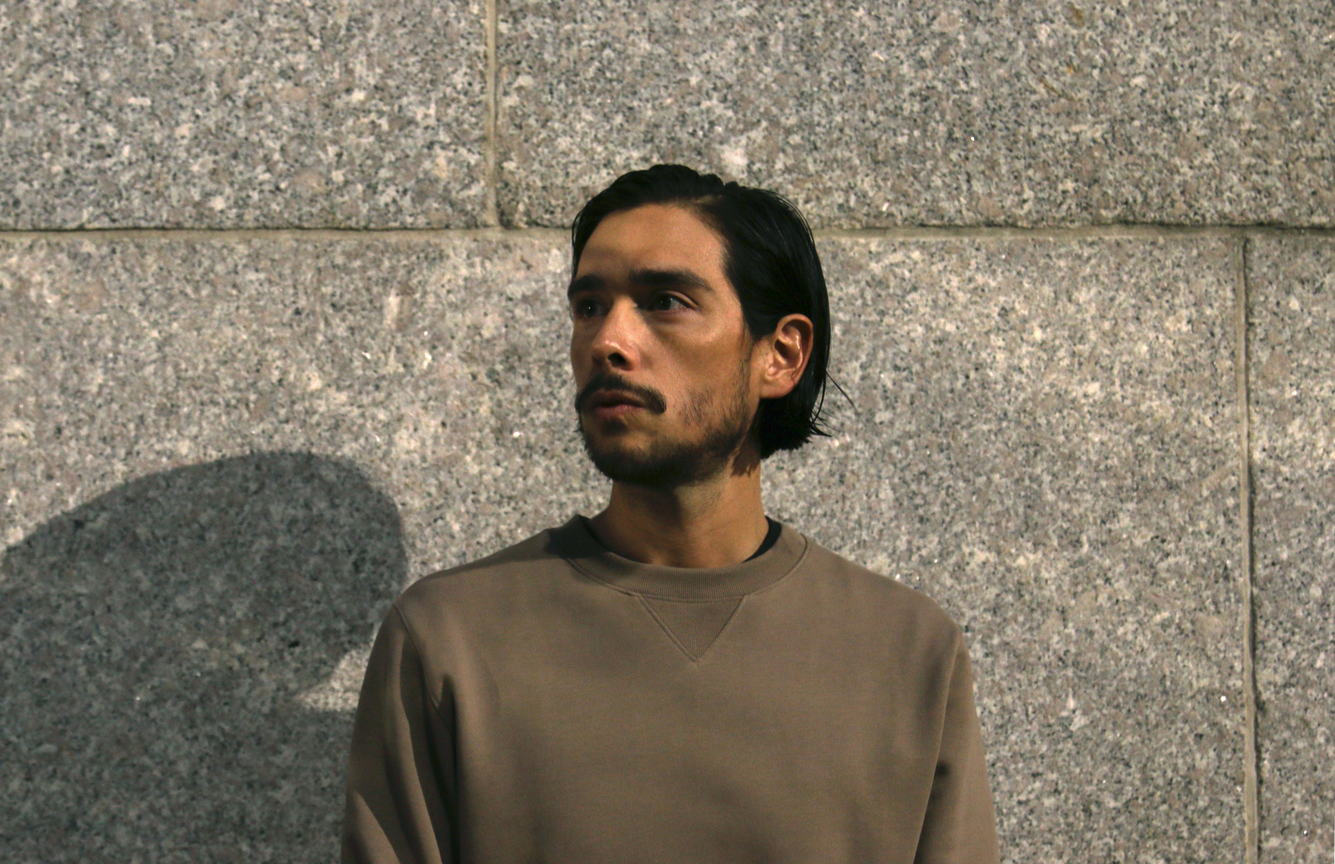
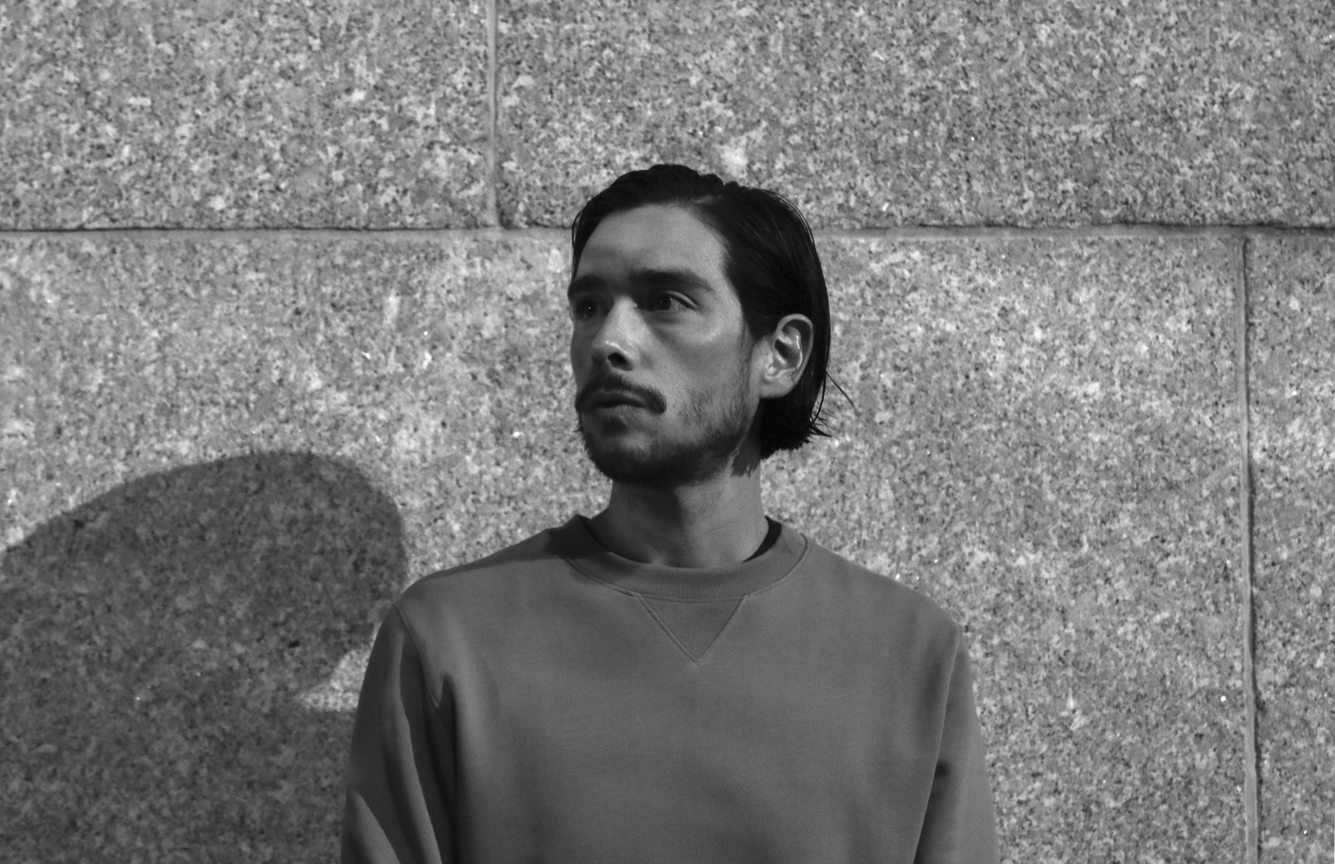
add spotify button. convert images to black and white

diff --git a/assets/styles/tokonoma-promo-landing-page.css b/assets/styles/tokonoma-promo-landing-page.css
@@ -27,7 +27,7 @@ a.tokonoma-page-buy-button {
   background: #D5AC87;
   border: 1px solid #D5AC87;
   text-transform: uppercase;
-  margin: 5px 0 30px 0;
+  margin: 5px 0 0 0;
   color: white;
   padding: 8px 10px;
   font-size: 18px;
@@ -46,13 +46,13 @@ a.tokonoma-page-buy-button {
 .tokonoma-page-splash-wrapper {
   width: 600px;
   position: absolute;
-  top: 165px;
+  top: 205px;
   left: 75px;
   z-index: 10;
 }
 
 .tokonoma-page-mailchimp-wrapper {
-  margin-top: 25px
+  margin-top: 15px
 }
 
 .mail-chimp-button {
@@ -63,6 +63,7 @@ a.tokonoma-page-buy-button {
   width: 151px;
   color: white;
   padding: 5px 0;
+  border-radius: 0;
 }
 
 .mail-chimp-button:hover {
@@ -219,7 +220,7 @@ video::-webkit-media-controls-panel {
     margin: 10px auto;
     max-width: 250px;
   }
-  a.tokonoma-page-buy-button.bandcamp {
+  a.tokonoma-page-buy-button.spotify {
     margin-bottom: 55px;
   }
   a.tokonoma-page-buy-button.cassette {
